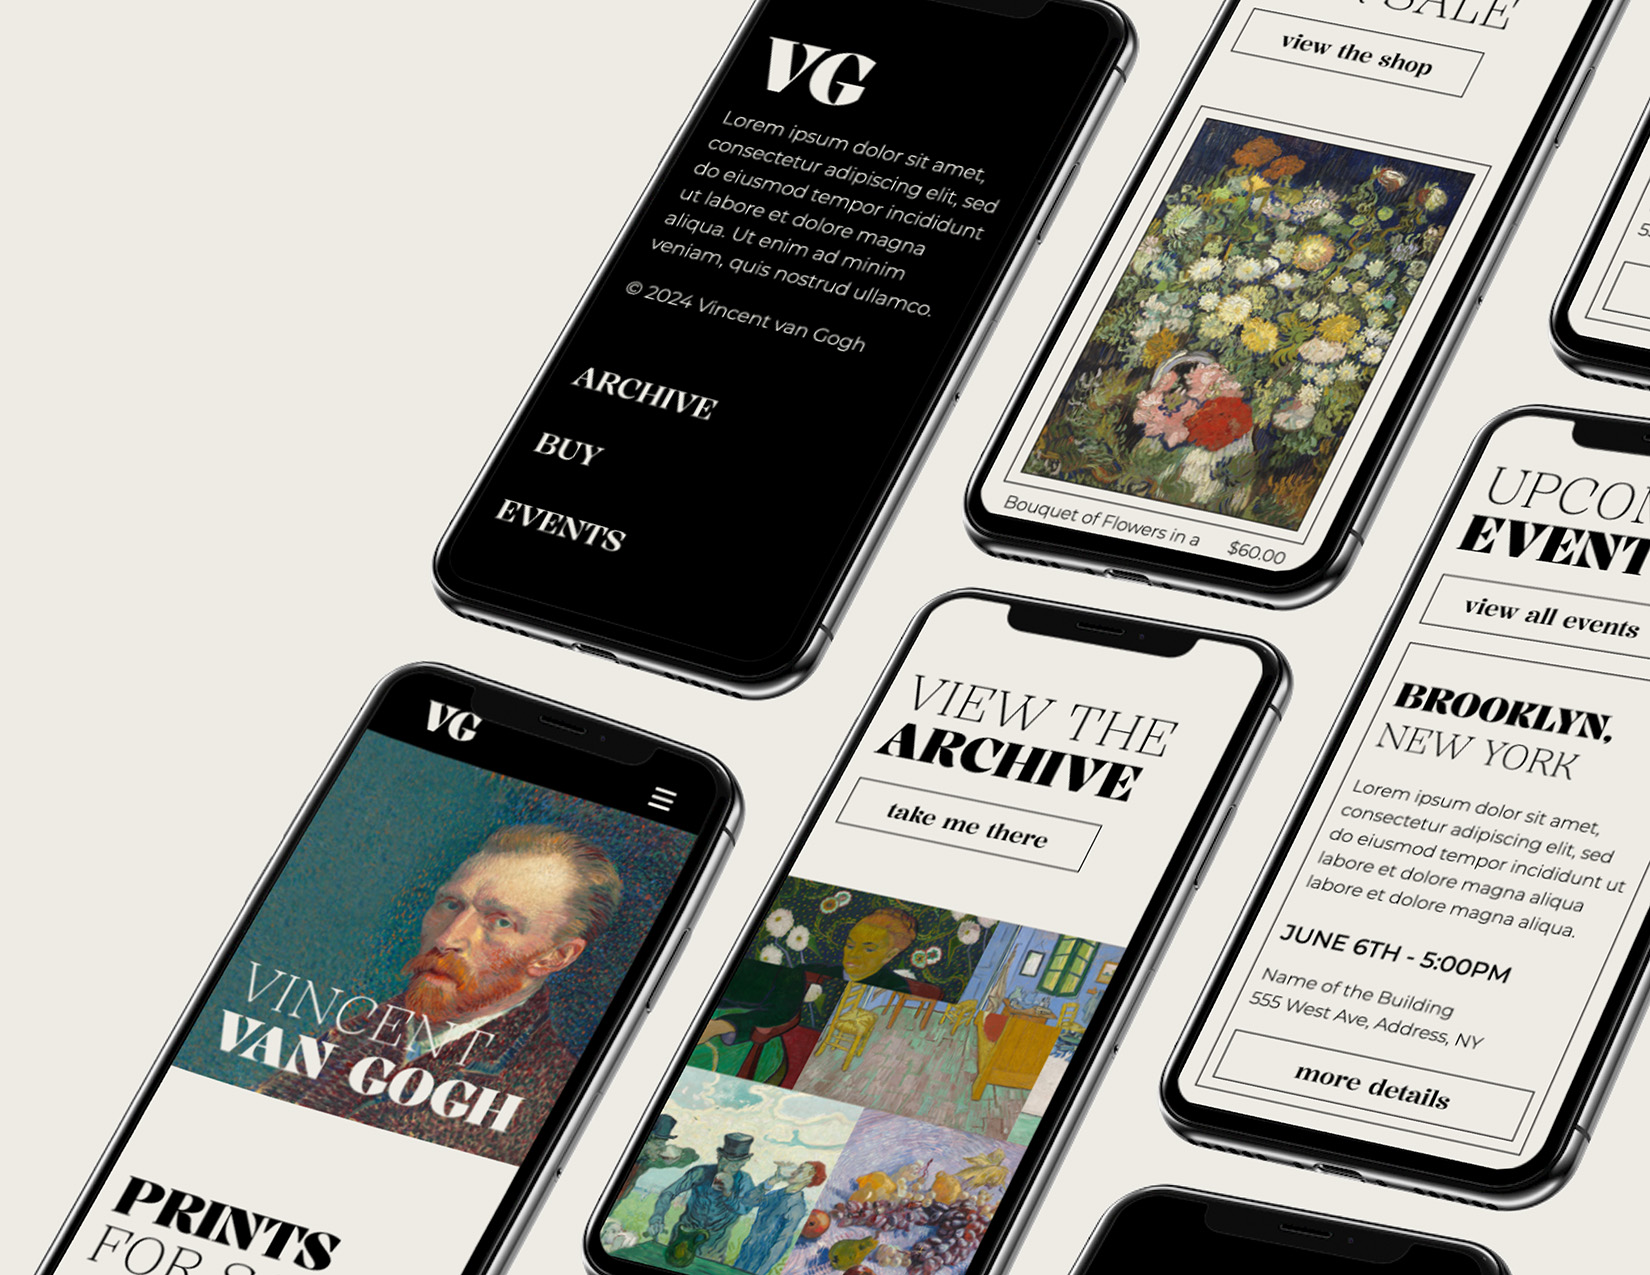
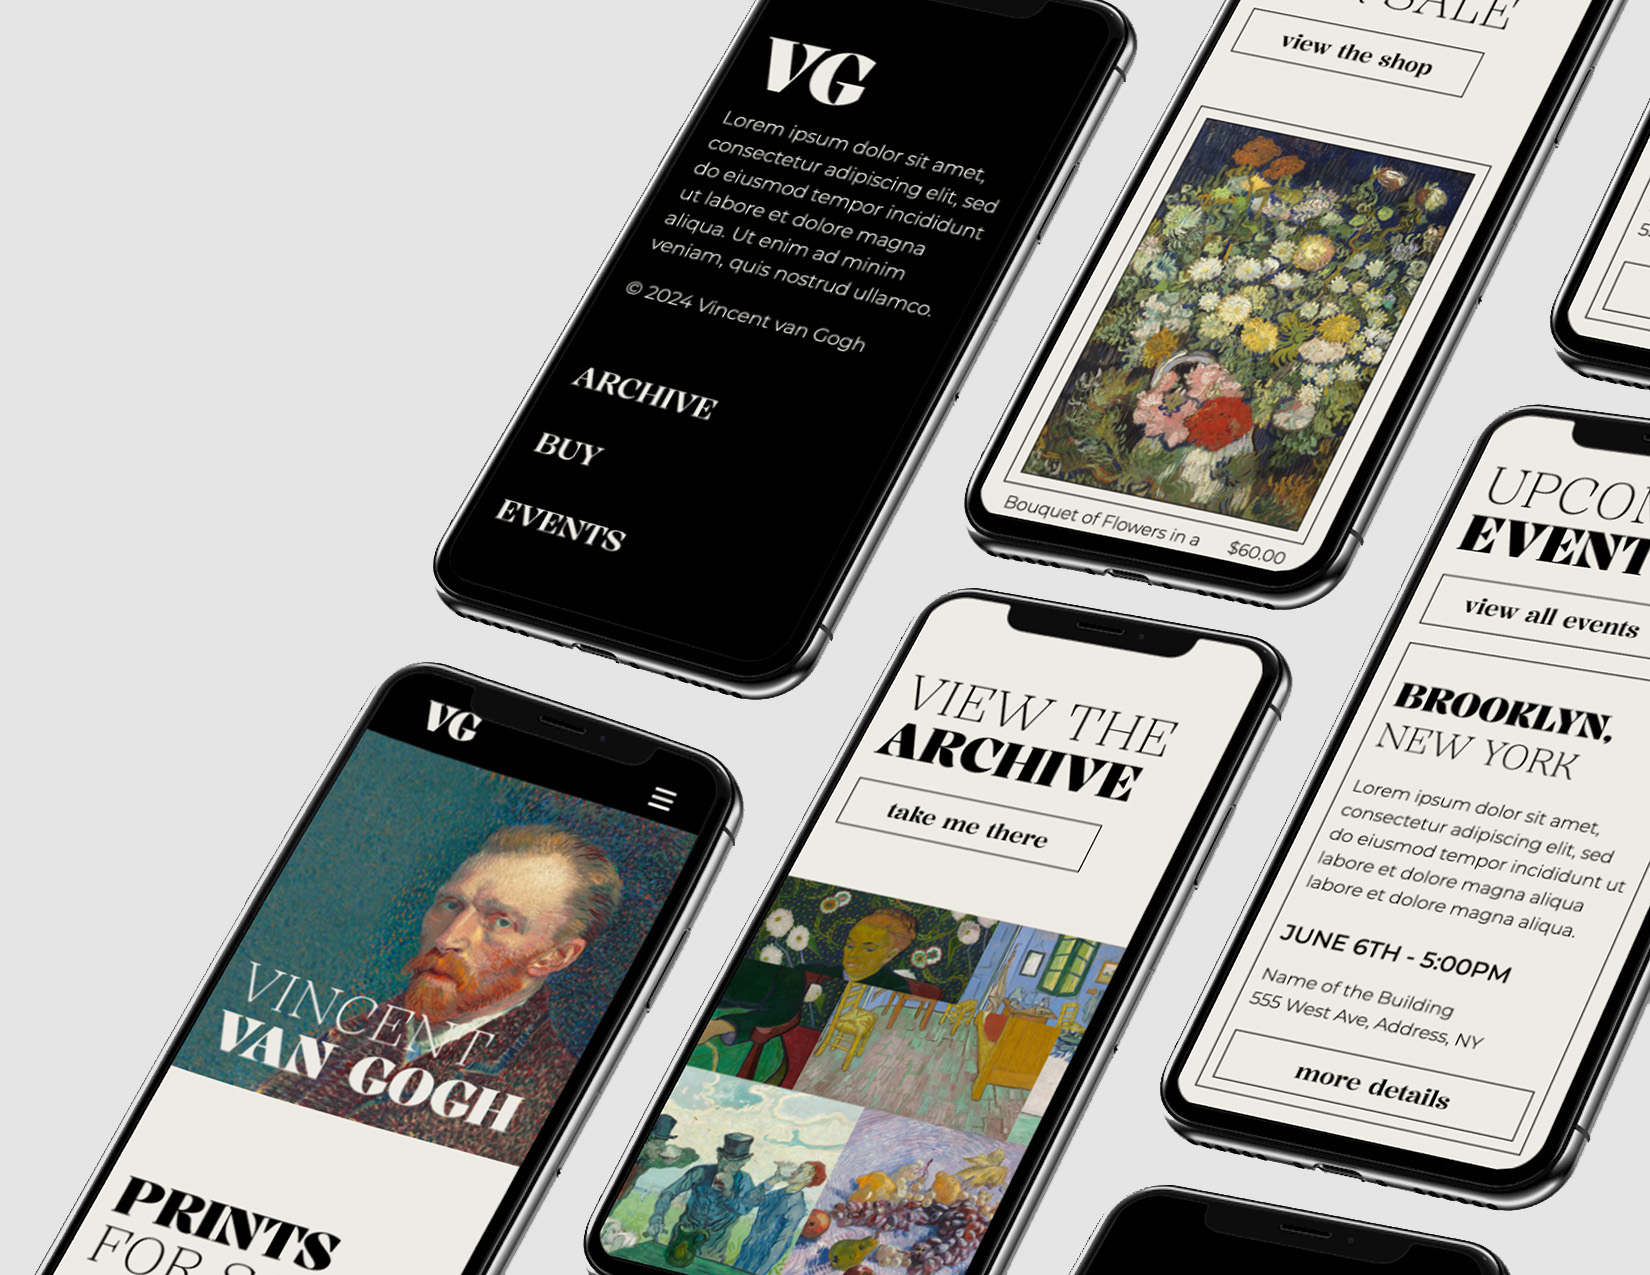
Change color theme

Changed region(s): [[0.9891, 0.7953, 1.0, 0.8259], [0.1545, 0.6424, 0.1855, 0.6729]]

diff --git a/developer-portfolio.html b/developer-portfolio.html
@@ -39,7 +39,7 @@
                 <li class="logo"><a href="./index.html">Kirsten Barrett</a></li>
                 <input type="checkbox" id="check">
                 <span class="menu">
-                    <li><a href="./index.html#recent-work" class="button theme-default">Projects</a></li>
+                    <li><a href="./index.html#recent-work" class="button theme-default">Case Studies</a></li>
                     <li for="check"><a href="#contact" onclick="menuClose()" class="button theme-default anchor">Contact</a></li>
                     <li class="mobile-only"><a href="https://github.com/kirsten-barrett?tab=repositories" target="_blank" rel="noopener" class="button theme-default">GitHub</a></li>
                     <li class="mobile-only"><a href="https://www.linkedin.com/in/kirsten-barrett/" target="_blank" rel="noopener" class="button theme-default">LinkedIn</a></li>
@@ -168,7 +168,7 @@
             </div>
             <br>
             <div class="flex-btns">
-                <a href="./index.html#recent-work" class="theme-default white button">View Other Projects</a>
+                <a href="./index.html#recent-work" class="theme-default button">View Other Projects</a>
             </div>
         </section>
     </div>
@@ -184,12 +184,12 @@
                 <h3 class="center">Send me an email:</h3>
                 <div class="btn-container">
                     <p class="center email">kirsten.barrett25@gmail.com</p>
-                    <p class="button theme-default center-btn" id="email-btn" onclick="copyEmail()">Copy Address</p>
+                    <p class="button theme-default-opposite center-btn" id="email-btn" onclick="copyEmail()">Copy Address</p>
                 </div>
                 <br>
                 <h3 class="second-contact center">View my resume:</h3>
                 <div class="btn-container">
-                    <a href="https://drive.google.com/file/d/1ELyYTd6oBeDWqTWd7bUhxKDhnBi3thyl/view?usp=sharing" target="_blank" rel="noopener" class="button theme-default center-btn">Kirsten's Google Doc</a>
+                    <a href="https://drive.google.com/file/d/1ELyYTd6oBeDWqTWd7bUhxKDhnBi3thyl/view?usp=sharing" target="_blank" rel="noopener" class="button theme-default-opposite center-btn">Kirsten's Google Doc</a>
                 </div>
             </div>
 

diff --git a/index.html b/index.html
@@ -41,7 +41,7 @@
                 <li><a href="#"><h1 class="logo">Kirsten Barrett</h1></a></li>
                 <input type="checkbox" id="check">
                 <span class="menu">
-                    <li><a href="#recent-work" onclick="menuClose()" class="button theme-default">Projects</a></li>
+                    <li><a href="#recent-work" onclick="menuClose()" class="button theme-default">Case Studies</a></li>
                     <li><a href="#contact" onclick="menuClose()" class="button theme-default anchor">Contact</a></li>
                     <li class="mobile-only"><a href="https://github.com/kirsten-barrett?tab=repositories" target="_blank" rel="noopener" class="button theme-default">GitHub</a></li>
                     <li class="mobile-only"><a href="https://www.linkedin.com/in/kirsten-barrett/" target="_blank" rel="noopener" class="button theme-default">LinkedIn</a></li>
@@ -82,13 +82,13 @@
         </div>
     </section>
 
-    <div id="recent-work" class="recent-work-section dark-gray-bg">
+    <div id="recent-work" class="recent-work-section dark-bg">
 
         <section>
             <div class="proj-grid">
 
                 <div class="proj-col-1">
-                    <h2 class="recent-work-title">Recent <br>Projects <span class="green-txt"><b>—</b></span></h2>
+                    <h2 class="recent-work-title">Case Studies <span class="green-txt"><b>—</b></span></h2>
 
                     <a href="./service-client.html"><div class="flex-box-proj">
                         <div>
@@ -150,7 +150,7 @@
             </div>
             <div class="btn-container">
                 <br>
-                <a href="https://kirstenbarrett.myportfolio.com/" target="_blank" rel="noopener" class="center-btn button white">Check Out My Old Portfolio</a>
+                <a href="https://kirstenbarrett.myportfolio.com/" target="_blank" rel="noopener" class="center-btn button theme-default">Check Out My Old Portfolio</a>
             </div>
             <br><br>
             

diff --git a/sitemap.html b/sitemap.html
@@ -40,7 +40,7 @@
                 <li class="logo"><a href="./index.html">Kirsten Barrett</a></li>
                 <input type="checkbox" id="check">
                 <span class="menu">
-                    <li><a href="./index.html#recent-work" class="button theme-default">Projects</a></li>
+                    <li><a href="./index.html#recent-work" class="button theme-default">Case Studies</a></li>
                     <li for="check"><a href="#contact" onclick="menuClose()" class="button theme-default anchor">Contact</a></li>
                     <li class="mobile-only"><a href="https://github.com/kirsten-barrett?tab=repositories" target="_blank" rel="noopener" class="button theme-default">GitHub</a></li>
                     <li class="mobile-only"><a href="https://www.linkedin.com/in/kirsten-barrett/" target="_blank" rel="noopener" class="button theme-default">LinkedIn</a></li>
@@ -58,7 +58,7 @@
         <br>
         <ul class="sitemap-list">
             <li><a href="./index.html">Home</a></li>
-            <li>Projects</li>
+            <li>Case Studies</li>
             <li class="indent"><a href="./artist-portfolio.html">Artist Portfolio Website</a></li>
             <li class="indent"><a href="./developer-portfolio.html">Developer Portfolio Website</a></li>
             <li class="indent"><a href="./service-client.html">Service Client Website</a></li>

diff --git a/artist-portfolio.html b/artist-portfolio.html
@@ -39,7 +39,7 @@
                 <li class="logo"><a href="./index.html">Kirsten Barrett</a></li>
                 <input type="checkbox" id="check">
                 <span class="menu">
-                    <li><a href="./index.html#recent-work" class="button theme-default">Projects</a></li>
+                    <li><a href="./index.html#recent-work" class="button theme-default">Case Studies</a></li>
                     <li for="check"><a href="#contact" onclick="menuClose()" class="button theme-default anchor">Contact</a></li>
                     <li class="mobile-only"><a href="https://github.com/kirsten-barrett?tab=repositories" target="_blank" rel="noopener" class="button theme-default">GitHub</a></li>
                     <li class="mobile-only"><a href="https://www.linkedin.com/in/kirsten-barrett/" target="_blank" rel="noopener" class="button theme-default">LinkedIn</a></li>

diff --git a/service-client.html b/service-client.html
@@ -39,7 +39,7 @@
                 <li class="logo"><a href="./index.html">Kirsten Barrett</a></li>
                 <input type="checkbox" id="check">
                 <span class="menu">
-                    <li><a href="./index.html#recent-work" class="button theme-default">Projects</a></li>
+                    <li><a href="./index.html#recent-work" class="button theme-default">Case Studies</a></li>
                     <li for="check"><a href="#contact" onclick="menuClose()" class="button theme-default anchor">Contact</a></li>
                     <li class="mobile-only"><a href="https://github.com/kirsten-barrett?tab=repositories" target="_blank" rel="noopener" class="button theme-default">GitHub</a></li>
                     <li class="mobile-only"><a href="https://www.linkedin.com/in/kirsten-barrett/" target="_blank" rel="noopener" class="button theme-default">LinkedIn</a></li>

diff --git a/travel-client.html b/travel-client.html
@@ -39,7 +39,7 @@
                 <li class="logo"><a href="./index.html">Kirsten Barrett</a></li>
                 <input type="checkbox" id="check">
                 <span class="menu">
-                    <li><a href="./index.html#recent-work" class="button theme-default">Projects</a></li>
+                    <li><a href="./index.html#recent-work" class="button theme-default">Case Studies</a></li>
                     <li for="check"><a href="#contact" onclick="menuClose()" class="button theme-default anchor">Contact</a></li>
                     <li class="mobile-only"><a href="https://github.com/kirsten-barrett?tab=repositories" target="_blank" rel="noopener" class="button theme-default">GitHub</a></li>
                     <li class="mobile-only"><a href="https://www.linkedin.com/in/kirsten-barrett/" target="_blank" rel="noopener" class="button theme-default">LinkedIn</a></li>

diff --git a/style.css b/style.css
@@ -49,9 +49,9 @@ h3 {
     background-color: transparent;
     border: #fff;
 }
-.dark-gray-bg {
-    background-color: #1e1e1e;
-    color: #fff;
+.dark-bg {
+    background-color: #e5e5e5;
+    color: #000;
 }
 .border {
     border: 1px solid #000;
@@ -454,6 +454,7 @@ nav {
 }
 .email {
     margin-top: 15px;
+    margin-bottom: 10px;
 }
 @media only screen and (max-width: 845px) {
     .contact {

diff --git a/case-study-general.css b/case-study-general.css
@@ -1,14 +1,6 @@
 /*======== CASE STUDY PAGE (GENERAL) ========*/
-.gray-client-page .dark-bg {
-    background-color: #e5e5e5;
-    color: #000;
-}
 .artist-portfolio-page .dark-bg {
     background-color: #edebe4;
-}
-.portfolio-site-page .dark-bg {
-    background-color: #1e1e1e;
-    color: #fff;
 }
 .case-study-page p, .case-study-page li{
     font-size: 1.1rem;
